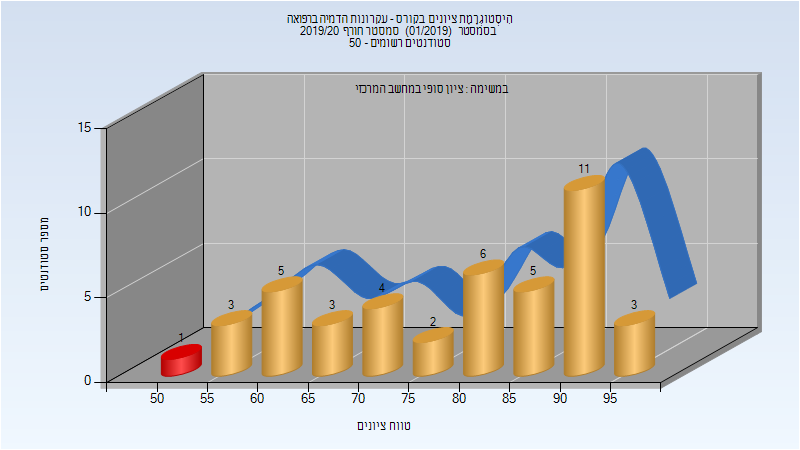
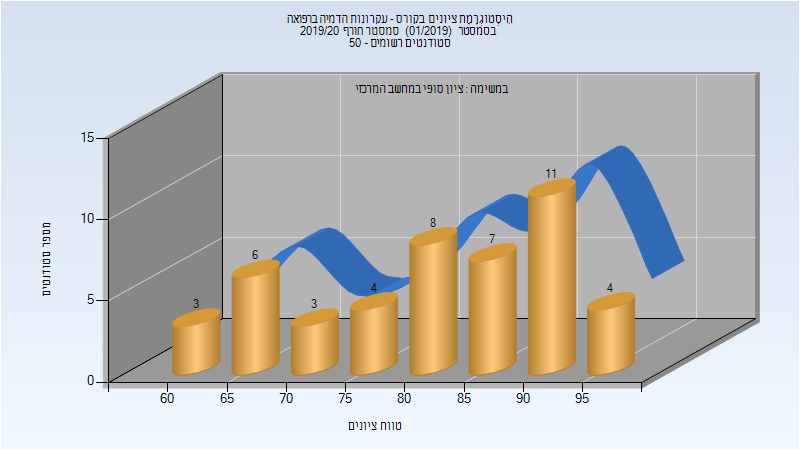
Deploy michael-maltsev/technion-histograms to github.com/michael-maltsev/technion-histograms.git:gh-pages

diff --git a/335002/index.html b/335002/index.html
@@ -155,5 +155,72 @@
 </tr>
 </tbody>
 </table>
+<h2>חורף 2019-2020</h2>
+<table>
+<thead>
+<tr>
+<th>איש סגל</th>
+<th>תפקיד</th>
+</tr>
+</thead>
+<tbody>
+<tr>
+<td>ליכטנשטיין אוסקר</td>
+<td>מרצה - אחראי מקצוע</td>
+</tr>
+</tbody>
+</table>
+<h3>סופי מועד א'</h3>
+<p><img src="201901/Final_A.png" alt="201901 Final_A" /></p>
+<table>
+<thead>
+<tr>
+<th>סטודנטים</th>
+<th>עברו/נכשלו</th>
+<th>אחוז עוברים</th>
+<th>ציון מינימלי</th>
+<th>ציון מקסימלי</th>
+<th>ממוצע</th>
+<th>חציון</th>
+</tr>
+</thead>
+<tbody>
+<tr>
+<td>15</td>
+<td>15/0</td>
+<td>100</td>
+<td>92</td>
+<td>97</td>
+<td>95.6</td>
+<td>95</td>
+</tr>
+</tbody>
+</table>
+<h3>סופי</h3>
+<p><img src="201901/Finals.png" alt="201901 Finals" /></p>
+<table>
+<thead>
+<tr>
+<th>סטודנטים</th>
+<th>עברו/נכשלו</th>
+<th>אחוז עוברים</th>
+<th>ציון מינימלי</th>
+<th>ציון מקסימלי</th>
+<th>ממוצע</th>
+<th>חציון</th>
+</tr>
+</thead>
+<tbody>
+<tr>
+<td>16</td>
+<td>16/0</td>
+<td>100</td>
+<td>92</td>
+<td>97</td>
+<td>95.375</td>
+<td>95</td>
+</tr>
+</tbody>
+</table>
   </body>
 </html>

diff --git a/336502/index.html b/336502/index.html
@@ -167,6 +167,32 @@
 </tr>
 </tbody>
 </table>
+<h3>סופי מועד ב'</h3>
+<p><img src="201901/Final_B.png" alt="201901 Final_B" /></p>
+<table>
+<thead>
+<tr>
+<th>סטודנטים</th>
+<th>עברו/נכשלו</th>
+<th>אחוז עוברים</th>
+<th>ציון מינימלי</th>
+<th>ציון מקסימלי</th>
+<th>ממוצע</th>
+<th>חציון</th>
+</tr>
+</thead>
+<tbody>
+<tr>
+<td>15</td>
+<td>15/0</td>
+<td>100</td>
+<td>60</td>
+<td>96</td>
+<td>73.333</td>
+<td>67</td>
+</tr>
+</tbody>
+</table>
 <h3>סופי</h3>
 <p><img src="201901/Finals.png" alt="201901 Finals" /></p>
 <table>
@@ -183,13 +209,13 @@
 </thead>
 <tbody>
 <tr>
-<td>43</td>
-<td>42/1</td>
-<td>98</td>
-<td>50</td>
+<td>46</td>
+<td>46/0</td>
+<td>100</td>
+<td>60</td>
 <td>99</td>
-<td>78.605</td>
-<td>82</td>
+<td>81.565</td>
+<td>83.5</td>
 </tr>
 </tbody>
 </table>

diff --git a/335002/README.md b/335002/README.md
@@ -44,3 +44,25 @@
 | ---- | ---- | ---- | ---- | ---- | ---- | ---- |
 | 21 | 21/0 | 100 | 94 | 99 | 96.857 | 97 |
 
+## חורף 2019-2020
+
+| איש סגל | תפקיד |
+| ---- | ---- |
+| ליכטנשטיין אוסקר | מרצה - אחראי מקצוע |
+
+### סופי מועד א'
+
+![201901 Final_A](201901/Final_A.png)
+
+| סטודנטים | עברו/נכשלו | אחוז עוברים | ציון מינימלי | ציון מקסימלי | ממוצע | חציון |
+| ---- | ---- | ---- | ---- | ---- | ---- | ---- |
+| 15 | 15/0 | 100 | 92 | 97 | 95.6 | 95 |
+
+### סופי
+
+![201901 Finals](201901/Finals.png)
+
+| סטודנטים | עברו/נכשלו | אחוז עוברים | ציון מינימלי | ציון מקסימלי | ממוצע | חציון |
+| ---- | ---- | ---- | ---- | ---- | ---- | ---- |
+| 16 | 16/0 | 100 | 92 | 97 | 95.375 | 95 |
+

diff --git a/336502/README.md b/336502/README.md
@@ -47,11 +47,19 @@
 | ---- | ---- | ---- | ---- | ---- | ---- | ---- |
 | 42 | 41/1 | 98 | 50 | 99 | 78.571 | 82.5 |
 
+### סופי מועד ב'
+
+![201901 Final_B](201901/Final_B.png)
+
+| סטודנטים | עברו/נכשלו | אחוז עוברים | ציון מינימלי | ציון מקסימלי | ממוצע | חציון |
+| ---- | ---- | ---- | ---- | ---- | ---- | ---- |
+| 15 | 15/0 | 100 | 60 | 96 | 73.333 | 67 |
+
 ### סופי
 
 ![201901 Finals](201901/Finals.png)
 
 | סטודנטים | עברו/נכשלו | אחוז עוברים | ציון מינימלי | ציון מקסימלי | ממוצע | חציון |
 | ---- | ---- | ---- | ---- | ---- | ---- | ---- |
-| 43 | 42/1 | 98 | 50 | 99 | 78.605 | 82 |
+| 46 | 46/0 | 100 | 60 | 99 | 81.565 | 83.5 |
 
